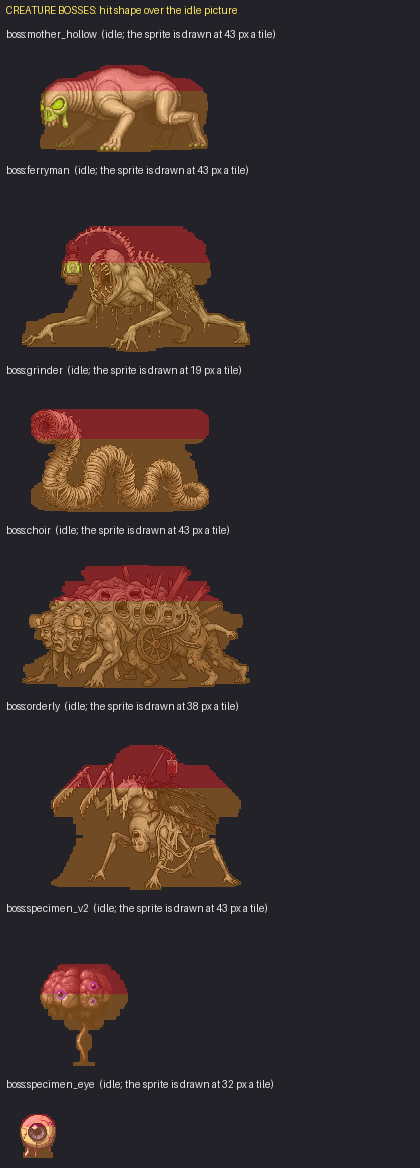
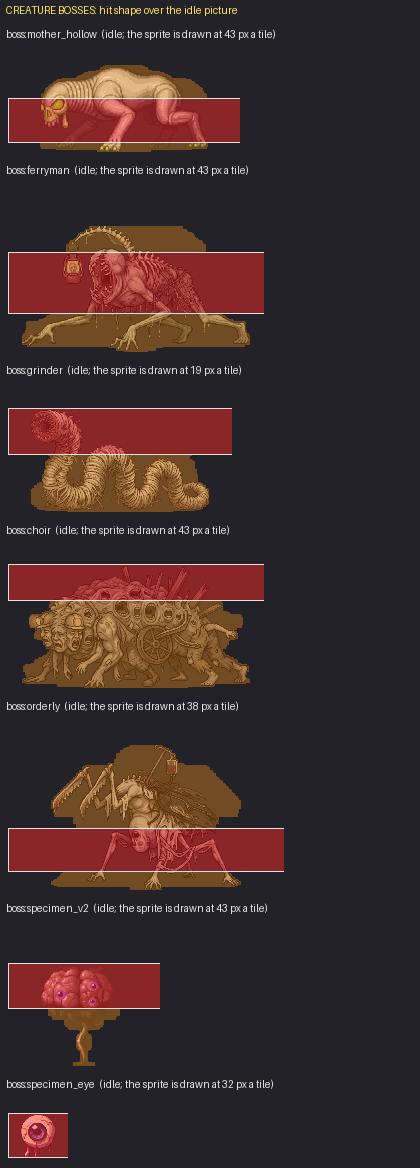
Heads where the heads are drawn (head boxes, crosshair side-aware); bosses' lunges are a visible rush
Claude-Session: https://claude.ai/code/session_01Jpd5tdDJTR7BVueAYV1KDM

diff --git a/ArtSource/make_hit_profiles.py b/ArtSource/make_hit_profiles.py
@@ -24,8 +24,23 @@ def profile_lr(a, ppt):
     def sm(o): o = np.array(o); return np.maximum.reduce([o, np.append(o[1:], 0), np.insert(o[:-1], 0, 0)])
     return sm(L), sm(Rr)
 CENTRE = {}
+
+# 2026-11-22 (Yan: "the hitboxes only consider the top of the mutants as the head, not the actual head from the sprite"): where the HEAD is, per body, as a box in fractions of the stand sprite's opaque bounding box (x 0 = its left edge .. 1 = its right edge in the picture facing right,
+# y 0 = the feet .. 1 = the crown). Read off the pictures (maps/renders/hitboxes). Bosses: a height range only (they are not stored per side). Tiles come out of it: HitProfiles.Head[key] = (x0, x1, yLo, yHi), x from the unit's centre, y above the feet.
+HEAD_FRAC = {'Pallid Prowler': (0.80, 1.0, 0.23, 0.68), 'Blind Maw': (0.65, 1.0, 0.20, 0.78), 'Veil Prowler': (0.82, 1.0, 0.35, 0.72), 'Dread Prowler': (0.78, 1.0, 0.36, 0.74), 'Blight Brute': (0.43, 0.72, 0.32, 0.63),
+             'Gaunt': (0.60, 1.0, 0.56, 1.0), 'Elder Gaunt': (0.65, 1.0, 0.64, 1.0), 'Ward Wretch': (0.30, 0.72, 0.83, 1.0), 'Ward Hulk': (0.35, 0.78, 0.72, 1.0), 'Ward Crawler': (0.48, 0.85, 0.60, 1.0)}   # (the Wards: stored mirrored, they are drawn facing left)
+BOSS_HEAD = {'boss:mother_hollow': (0.10, 0.60), 'boss:ferryman': (0.30, 0.78), 'boss:grinder': (0.55, 1.0), 'boss:orderly': (0.12, 0.42), 'boss:choir': (0.70, 1.0), 'boss:specimen_v2': (0.55, 1.0), 'boss:specimen_eye': (0.0, 1.0)}
+HEAD = {}
+def add_head(name, stand_alpha, ppt):
+    if name not in HEAD_FRAC: return
+    a = stand_alpha; ys = np.where(a.any(1))[0]; xs = np.where(a.any(0))[0]; top, bot = ys.min(), ys.max(); cx = a.shape[1] / 2.0
+    x0f, x1f, y0f, y1f = HEAD_FRAC[name]; xmin, xmax = xs.min(), xs.max() + 1; ht = (bot - top + 1)
+    x0 = (xmin + x0f * (xmax - xmin) - cx) / ppt; x1 = (xmin + x1f * (xmax - xmin) - cx) / ppt
+    if name.startswith('Ward '): x0, x1 = -x1, -x0
+    HEAD[name] = (x0, x1, y0f * ht / ppt, y1f * ht / ppt)
 def union_profile(k, name, ppt):
     stand = np.array(Image.open(f'{R}/Mutants/mutant_hd_{k}.png').convert('RGBA'))[..., 3] > 0
+    add_head(name, stand, ppt)
     bl, br = profile_lr(stand, ppt); bl, br = list(bl), list(br)
     cuts = []
     for kind in ('walk', 'run'):
@@ -67,6 +82,8 @@ for _k, _s in _sc.items():
     E_['boss:' + _k] = profile(_im[:, 0:_w], int(round(32 / _s)))
 eb = np.array(Image.open(f'{R}/Fx/boss_eel_body_s0.png').convert('RGBA'))[..., 3] > 0; EEL = [max(0.12, float(np.median(eb[:, i * 8:i * 8 + 8].sum(0))) / 2 / 32) for i in range(140)]
 eh = np.array(Image.open(f'{R}/Fx/boss_eel_head_s0.png').convert('RGBA'))[..., 3] > 0; EELHEAD = float(eh.sum(0).max()) / 2 / 32
+for _bk, (_lo, _hi) in BOSS_HEAD.items():
+    if _bk in E_: _h = len(E_[_bk][0]) / E_[_bk][1]; HEAD[_bk] = (-99.0, 99.0, _lo * _h, _hi * _h)
 L = ['// GENERATED by ArtSource/make_hit_profiles.py - do not edit. A body\'s hit silhouette: half-width (tiles) per pixel row from the feet up, taken from its sprite.',
      'using System.Collections.Generic;', '', 'namespace GameData', '{', '    public static class HitProfiles', '    {',
      '        /// <summary>Pixels a tile in the sprite the profile was cut from (32 for the double-resolution art, 16 for the old atlas cells).</summary>', '        public static readonly Dictionary<string, (int ppt, float[] half)> All = new Dictionary<string, (int, float[])>', '        {']
@@ -79,5 +96,13 @@ L += ['        };', '', '        /// <summary>2026-11-22 (Yan: the hit shape fol
       '        /// <summary>The eel\'s body: the radius (tiles) of its hit column at each of the 140 spine samples, from the thickness of its drawn body (so it tapers to the tail); the head zone\'s radius.</summary>',
       '        public static readonly float[] EelBody = new[] { ' + ', '.join(f'{v:.3f}f' for v in EEL) + ' };', f'        public const float EelHeadHalf = {EELHEAD:.3f}f;', '',
       '        /// <summary>The silhouette\'s height in tiles (feet to crown), 0 for a body without one.</summary>', '        public static float Height(string key) => key != null && All.TryGetValue(key, out var p) ? p.half.Length / (float)p.ppt : 0f;', '    }', '}', '']
-open(os.path.join(ROOT, 'Assets/Scripts/GameData/HitProfiles.cs'), 'w').write('\n'.join(L))
+_txt = '\n'.join(L)
+_extra = ['        /// <summary>2026-11-22 (Yan: the head is where the head is drawn, not the top 30%): (x0, x1, yLo, yHi) of the head, x from the unit\'s centre in the picture facing right (+-99 = any x), y above the feet, tiles. ArtSource/make_hit_profiles.py HEAD_FRAC.</summary>',
+          '        public static readonly Dictionary<string, (float x0, float x1, float lo, float hi)> Head = new Dictionary<string, (float, float, float, float)>', '        {'] + [f'            ["{n}"] = ({v[0]:.3f}f, {v[1]:.3f}f, {v[2]:.3f}f, {v[3]:.3f}f),' for n, v in HEAD.items()] + ['        };', '',
+          '        /// <summary>Is the point (x from the centre, height above the feet) on the head? `flipped`: the mutant is drawn mirrored. Bodies without a head box: the old rule, the top 30%.</summary>',
+          '        public static bool HasHead(string key) => key != null && Head.ContainsKey(key);', '', '        public static bool OnHead(string key, bool flipped, float x, float height)', '        {',
+          '            if (key == null || !Head.TryGetValue(key, out var h)) return false; if (flipped) x = -x;', '            return height >= h.lo && height <= h.hi && x >= h.x0 && x <= h.x1;', '        }',
+          '        public static bool InHeadRows(string key, float height) => key != null && Head.TryGetValue(key, out var h) && height >= h.lo && height <= h.hi;', '']
+_txt = _txt.replace("        /// <summary>The silhouette's height in tiles (feet to crown)", '\n'.join(_extra) + "\n        /// <summary>The silhouette's height in tiles (feet to crown)", 1)
+open(os.path.join(ROOT, 'Assets/Scripts/GameData/HitProfiles.cs'), 'w').write(_txt)
 for n, (p, ppt) in E_.items(): print(f'{n:16s} {len(p)} rows ({len(p)/ppt:.2f} tiles) half {p.min():.2f}..{p.max():.2f}')

diff --git a/Tools/compile_check/test/Program.cs b/Tools/compile_check/test/Program.cs
@@ -1507,7 +1507,7 @@ static class Program {
       UnityEngine.Time.time = 99000f; UnityEngine.Time.timeScale = 1f; var f = Boss.Spawn(def, px + 5, py); var v = f.Unit; Rt.SetOffset(v, 0f, 0f); if (Environment.GetEnvironmentVariable("PHASE2") != null) { v.Hp = (int)(v.MaxHp * 0.4f); } var (lx, ly) = Ballistics.Pos(v); var (lpx, lpy) = Ballistics.Pos(p); int pjumps = 0; int jumps = 0; var byMove = new Dictionary<string, int>(); var moveCount = new Dictionary<string, int>(); string lastMove = null;
       for (int k = 0; k < 60 * 90; k++) { float dt = 1f / 60f; UnityEngine.Time.time += dt; UnityEngine.Time.deltaTime = dt; UnityEngine.Time.unscaledTime += dt; UnityEngine.Time.unscaledDeltaTime = dt; UnityEngine.Time.timeScale = 1f;
         p.Hp = p.MaxHp; var kin = new Rt.Input(); if (Environment.GetEnvironmentVariable("KITE") != null) { int dd = CombatantUtil.Distance(p, v); int sxk = Math.Sign(p.X - v.X); if (dd < 3) kin.X = sxk; else if (dd > 4) kin.X = -sxk; } Rt.PlayerTick(p, kin); Rt.WorldTick(p); Rt.Glide(dt); CombatFx.Pending.Clear(); var (x, y) = Ballistics.Pos(v); float d = (float)Math.Sqrt((x - lx) * (x - lx) + (y - ly) * (y - ly));
-        string mv = f.Doing?.Name ?? f.Clip ?? "-"; if (d > 0.6f && k > 2) { jumps++; byMove[mv + " (after " + (lastMove ?? "-") + ")"] = byMove.TryGetValue(mv + " (after " + (lastMove ?? "-") + ")", out var c0) ? c0 + 1 : 1; if (jumps <= 12) Console.WriteLine($"  t {UnityEngine.Time.time - 99000f:0.00}: jumped {d:0.0} tiles in {mv}: ({lx:0.0},{ly:0.0}) -> ({x:0.0},{y:0.0})"); }
+        string mv = f.Doing?.Name ?? f.Clip ?? "-"; if (d > 0.25f && k > 2) { jumps++; byMove[mv + " (after " + (lastMove ?? "-") + ")"] = byMove.TryGetValue(mv + " (after " + (lastMove ?? "-") + ")", out var c0) ? c0 + 1 : 1; if (jumps <= 12) Console.WriteLine($"  t {UnityEngine.Time.time - 99000f:0.00}: jumped {d:0.0} tiles in {mv}: ({lx:0.0},{ly:0.0}) -> ({x:0.0},{y:0.0})"); }
         { var (qx, qy) = Ballistics.Pos(p); float pd = (float)Math.Sqrt((qx - lpx) * (qx - lpx) + (qy - lpy) * (qy - lpy)); if (pd > 0.6f && k > 2) { pjumps++; if (pjumps <= 6) Console.WriteLine($"  t {UnityEngine.Time.time - 99000f:0.00}: YOU jumped {pd:0.0} tiles in {mv}"); } lpx = qx; lpy = qy; }
         if (f.Doing != null) { if (f.Doing.Name != lastMove) moveCount[f.Doing.Name] = moveCount.TryGetValue(f.Doing.Name, out var mc0) ? mc0 + 1 : 1; lastMove = f.Doing.Name; } lx = x; ly = y; if (f.Broken || f.Finished) break; }
       Console.WriteLine($"{def.Name}: {jumps} jumps over 0.6 tile; " + string.Join(", ", byMove.Select(e => e.Key + " x" + e.Value)) + $", you jumped {pjumps}x  | moves done: " + string.Join(", ", moveCount.Select(e => e.Key + " " + e.Value)));
@@ -3388,7 +3388,8 @@ static class Program {
       // the bag: a round at the bag's height is a bag hit, x2.5, and the bag holds only so much
       Reset(5); var (ohx, ohy) = Ballistics.Pos(h); float topH = GameData.HitProfiles.Height("boss:orderly"); Check(BossArt.HitKey(h) == "boss:orderly" && topH > 3f, $"Orderly: its hit profile is the drawn hp1 ({topH:0.0} tiles tall)");
       var bagShot = Ballistics.Trace(p, ohx + 0.6f, ohy - 6f, 0f, 1f, 12f, (0.88f * topH) / Ballistics.BodyTiles, new ICombatant[] { h }); Check(bagShot.Unit == h && bagShot.Part == "Bag", $"Orderly: a round at the bag's height is a bag hit ({bagShot.Part})");
-      var chestShot = Ballistics.Trace(p, ohx + 0.6f, ohy - 6f, 0f, 1f, 12f, (0.4f * topH) / Ballistics.BodyTiles, new ICombatant[] { h }); Check(chestShot.Unit == h && chestShot.Part == "Body", $"Orderly: a round at the chest is just the body ({chestShot.Part})");
+      var headShotO = Ballistics.Trace(p, ohx + 0.6f, ohy - 6f, 0f, 1f, 12f, (0.25f * topH) / Ballistics.BodyTiles, new ICombatant[] { h }); Check(headShotO.Unit == h && headShotO.Part == "Head", "Orderly: a round at its drawn face (low on the body) is a head shot");
+      var chestShot = Ballistics.Trace(p, ohx + 0.6f, ohy - 6f, 0f, 1f, 12f, (0.6f * topH) / Ballistics.BodyTiles, new ICombatant[] { h }); Check(chestShot.Unit == h && chestShot.Part == "Body", $"Orderly: a round above its face is just the body ({chestShot.Part})");
       OrderlyBoss.OnEnterZone("x"); f.Stalking = false; f.Broken = false; f.Finished = false; h.Hp = h.MaxHp; float one = OrderlyBoss.BagHit(f, 100f); Check(System.Math.Abs(one - 100f * OrderlyBoss.BagMult) < 0.1f, "Orderly: a bag hit does 2.5x");
       for (int i = 0; i < 40 && !OrderlyBoss.BagBurst(f); i++) OrderlyBoss.BagHit(f, 2000f); Check(OrderlyBoss.BagBurst(f) && h.StatusEffects.Bleeding && f.StaggerUntil > UnityEngine.Time.time, "Orderly: the bag bursts after enough hits: bleeding, open for a moment");
       Check(OrderlyBoss.BagHit(f, 100f) == 100f, "Orderly: a burst bag is just a body now");

diff --git a/Assets/Scripts/GameCore/Ballistics.cs b/Assets/Scripts/GameCore/Ballistics.cs
@@ -54,14 +54,14 @@ namespace GameCore
             if (EelBoss.Is(u)) { part = null; return -1f; }   // Boss 3: the eel is hit along its whole body (EelSump.TraceBody), not at its two base units
             if (u is HumanEnemy hb && BossArt.HitKey(hb) is string bk)                    // 2026-11-21: a creature boss (BossArt) is hit on its own drawn silhouette, not a man's
             {
-                float top = GameData.HitProfiles.Height(bk); part = h * BodyTiles >= 0.7f * top ? "Head" : "Body";
+                float top = GameData.HitProfiles.Height(bk); part = GameData.HitProfiles.HasHead(bk) ? (GameData.HitProfiles.InHeadRows(bk, h * BodyTiles) ? "Head" : "Body") : h * BodyTiles >= 0.7f * top ? "Head" : "Body";   // 2026-11-22: the head is where the head is drawn
                 if (bk == "boss:orderly" && h * BodyTiles >= 0.78f * top && h * BodyTiles <= 0.93f * top) part = "Bag";      // 2026-11-22: the IV bag on its pole, high on its back: a weak point (OrderlyBoss.BagHit)
                 float a = GameData.HitProfiles.Half(bk, h * BodyTiles); return a < 0f ? -1f : Reach(a, GameData.HitProfiles.DepthCap(bk), dx, dy);
             }
             if (!(u is Player) && !(u is HumanEnemy) && u is Mutant m)
             {
                 string key = m.Db?.Name; float top = MutantHeight(m) + EelSump.LiftOfUnit(m);   // Boss 3: a raised eel part is taller from the ground by how high it is drawn
-                part = h * BodyTiles >= 0.7f * top ? "Head" : "Body";
+                part = GameData.HitProfiles.HasHead(key) ? (GameData.HitProfiles.InHeadRows(key, h * BodyTiles) ? "Head" : "Body") : h * BodyTiles >= 0.7f * top ? "Head" : "Body";   // 2026-11-22 (Yan: "the hitboxes only consider the top of the mutants as the head, not the actual head from the sprite"): the head rows of its sprite (HitProfiles.Head); the crosshair's own side-to-side position picks head or body in Rt.PlayerFire
                 if (h * BodyTiles > top) return -1f;
                 float a = GameData.HitProfiles.Half(key, h * BodyTiles); if (a >= 0f) cx = GameData.HitProfiles.CentreOf(key, h * BodyTiles) * (UnitSprites.Flipped(m) ? -1f : 1f);   // the shape sits where the sprite does
                 if (a < 0f) return key != null && GameData.HitProfiles.All.ContainsKey(key) ? -1f : 0.25f * MutantSize(m);   // no silhouette (the bosses): the old column
@@ -92,7 +92,7 @@ namespace GameCore
             if (u is HumanEnemy hb && BossArt.HitKey(hb) is string bk)                    // 2026-11-21: a creature boss's own silhouette
             {
                 float ht = GameData.HitProfiles.Height(bk);
-                for (float y = 0f; y < ht - 0.001f; y += 2f / 32f) { float y2 = System.Math.Min(ht, y + 2f / 32f), a = GameData.HitProfiles.Half(bk, (y + y2) * 0.5f); if (a > 0f) l.Add((y / BodyTiles, y2 / BodyTiles, a, (y + y2) * 0.5f >= 0.7f * ht ? "Head" : "Body", 0f)); }
+                for (float y = 0f; y < ht - 0.001f; y += 2f / 32f) { float y2 = System.Math.Min(ht, y + 2f / 32f), a = GameData.HitProfiles.Half(bk, (y + y2) * 0.5f); if (a > 0f) l.Add((y / BodyTiles, y2 / BodyTiles, a, (GameData.HitProfiles.HasHead(bk) ? GameData.HitProfiles.InHeadRows(bk, (y + y2) * 0.5f) : (y + y2) * 0.5f >= 0.7f * ht) ? "Head" : "Body", 0f)); }
                 return l;
             }
             bool mut = !(u is Player) && !(u is HumanEnemy) && u is Mutant;
@@ -105,7 +105,7 @@ namespace GameCore
                 float y2 = System.Math.Min(height, y + step), mid = (y + y2) * 0.5f, a = GameData.HitProfiles.Half(key, mut ? mid : mid / s);
                 if (a <= 0f) continue;
                 float hs = mid / BodyTiles;
-                string part = mut ? (mid >= 0.7f * height ? "Head" : "Body") : hs >= HeadFrom * s ? "Head" : hs >= TorsoFrom * s ? "Torso" : "Legs";
+                string part = mut ? ((GameData.HitProfiles.HasHead(key) ? GameData.HitProfiles.InHeadRows(key, mid) : mid >= 0.7f * height) ? "Head" : "Body") : hs >= HeadFrom * s ? "Head" : hs >= TorsoFrom * s ? "Torso" : "Legs";
                 l.Add((y / BodyTiles, y2 / BodyTiles, a, part, mut ? GameData.HitProfiles.CentreOf(key, mid) * (UnitSprites.Flipped(m) ? -1f : 1f) : 0f));
             }
             return l;

diff --git a/Assets/Scripts/GameData/HitProfiles.cs b/Assets/Scripts/GameData/HitProfiles.cs
@@ -68,6 +68,38 @@ namespace GameData
         public static readonly float[] EelBody = new[] { 1.109f, 1.141f, 1.203f, 1.219f, 1.234f, 1.250f, 1.188f, 1.203f, 1.219f, 1.141f, 1.141f, 1.133f, 1.156f, 1.055f, 1.062f, 1.086f, 1.109f, 1.031f, 1.031f, 1.062f, 1.086f, 0.984f, 1.031f, 1.078f, 1.094f, 1.070f, 1.062f, 1.078f, 1.078f, 1.062f, 0.969f, 0.969f, 0.992f, 0.945f, 0.953f, 0.984f, 0.938f, 0.914f, 0.906f, 0.906f, 0.898f, 0.906f, 0.906f, 0.938f, 0.859f, 0.883f, 0.914f, 0.883f, 0.867f, 0.867f, 0.875f, 0.875f, 0.891f, 0.891f, 0.859f, 0.859f, 0.867f, 0.875f, 0.836f, 0.844f, 0.797f, 0.797f, 0.781f, 0.812f, 0.828f, 0.875f, 0.867f, 0.867f, 0.867f, 0.852f, 0.891f, 0.883f, 0.875f, 0.875f, 0.852f, 0.875f, 0.883f, 0.914f, 0.875f, 0.867f, 0.938f, 0.906f, 0.891f, 0.906f, 0.906f, 0.906f, 0.922f, 0.977f, 0.984f, 0.953f, 0.938f, 0.844f, 0.781f, 0.766f, 0.766f, 0.766f, 0.727f, 0.703f, 0.719f, 0.719f, 0.711f, 0.688f, 0.641f, 0.656f, 0.672f, 0.672f, 0.609f, 0.602f, 0.609f, 0.594f, 0.539f, 0.547f, 0.547f, 0.500f, 0.484f, 0.477f, 0.477f, 0.461f, 0.445f, 0.438f, 0.438f, 0.430f, 0.406f, 0.414f, 0.406f, 0.367f, 0.344f, 0.344f, 0.320f, 0.312f, 0.312f, 0.273f, 0.234f, 0.219f, 0.203f, 0.203f, 0.188f, 0.188f, 0.156f, 0.141f };
         public const float EelHeadHalf = 1.250f;
 
+        /// <summary>2026-11-22 (Yan: the head is where the head is drawn, not the top 30%): (x0, x1, yLo, yHi) of the head, x from the unit's centre in the picture facing right (+-99 = any x), y above the feet, tiles. ArtSource/make_hit_profiles.py HEAD_FRAC.</summary>
+        public static readonly Dictionary<string, (float x0, float x1, float lo, float hi)> Head = new Dictionary<string, (float, float, float, float)>
+        {
+            ["Pallid Prowler"] = (0.441f, 0.703f, 0.151f, 0.446f),
+            ["Blind Maw"] = (0.259f, 0.719f, 0.200f, 0.780f),
+            ["Veil Prowler"] = (0.480f, 0.750f, 0.317f, 0.652f),
+            ["Dread Prowler"] = (0.551f, 0.984f, 0.416f, 0.856f),
+            ["Blight Brute"] = (-0.145f, 0.390f, 0.600f, 1.181f),
+            ["Gaunt"] = (0.186f, 0.977f, 1.276f, 2.279f),
+            ["Elder Gaunt"] = (0.219f, 1.163f, 1.920f, 3.000f),
+            ["Ward Wretch"] = (-0.256f, 0.203f, 1.556f, 1.875f),
+            ["Ward Hulk"] = (-0.511f, 0.202f, 1.417f, 1.969f),
+            ["Ward Crawler"] = (-0.661f, 0.021f, 0.881f, 1.469f),
+            ["boss:mother_hollow"] = (-99.000f, 99.000f, 0.202f, 1.214f),
+            ["boss:ferryman"] = (-99.000f, 99.000f, 0.879f, 2.286f),
+            ["boss:grinder"] = (-99.000f, 99.000f, 2.982f, 5.421f),
+            ["boss:orderly"] = (-99.000f, 99.000f, 0.458f, 1.603f),
+            ["boss:choir"] = (-99.000f, 99.000f, 2.002f, 2.860f),
+            ["boss:specimen_v2"] = (-99.000f, 99.000f, 1.305f, 2.372f),
+            ["boss:specimen_eye"] = (-99.000f, 99.000f, 0.000f, 1.375f),
+        };
+
+        /// <summary>Is the point (x from the centre, height above the feet) on the head? `flipped`: the mutant is drawn mirrored. Bodies without a head box: the old rule, the top 30%.</summary>
+        public static bool HasHead(string key) => key != null && Head.ContainsKey(key);
+
+        public static bool OnHead(string key, bool flipped, float x, float height)
+        {
+            if (key == null || !Head.TryGetValue(key, out var h)) return false; if (flipped) x = -x;
+            return height >= h.lo && height <= h.hi && x >= h.x0 && x <= h.x1;
+        }
+        public static bool InHeadRows(string key, float height) => key != null && Head.TryGetValue(key, out var h) && height >= h.lo && height <= h.hi;
+
         /// <summary>The silhouette's height in tiles (feet to crown), 0 for a body without one.</summary>
         public static float Height(string key) => key != null && All.TryGetValue(key, out var p) ? p.half.Length / (float)p.ppt : 0f;
     }

diff --git a/Assets/Scripts/GameCore/Rt.cs b/Assets/Scripts/GameCore/Rt.cs
@@ -77,7 +77,7 @@ namespace GameCore
                     if (Mathf.Abs(jx) <= 2.5f && Mathf.Abs(jy) <= 2.5f) { sx += jx; sy += jy; } else { sx = 0f; sy = 0f; }   // a jump far off is a teleport
                     Was[e] = (bx, by);
                 }
-                float len = Mathf.Sqrt(sx * sx + sy * sy), step = Mathf.Max(RtAi.Speed(e) * 1.15f, len > 1.2f ? len / RushTime : 0f) * dt;   // a lunge rushes (game time: bullet time slows it too)
+                float len = Mathf.Sqrt(sx * sx + sy * sy), step = Mathf.Max(RtAi.Speed(e) * 1.15f, len > 1.2f ? len / (e is HumanEnemy && Boss.Of(e) != null ? RushTimeBoss : RushTime) : 0f) * dt;   // a lunge rushes (game time: bullet time slows it too)
                 if (len <= step || !e.IsAlive()) { sx = 0f; sy = 0f; } else { sx *= (len - step) / len; sy *= (len - step) / len; }
                 Slide[e] = (sx, sy);
             }
@@ -88,6 +88,7 @@ namespace GameCore
         public const float StaminaMax = 100f, SprintDrain = 18f, StaminaRegen = 14f;
         public const float Radius = 0.22f;
         public const float NpcTurnSeconds = 3f, RoundSeconds = 6f;
+        public const float RushTimeBoss = 0.32f;                      // 2026-11-22: a boss's lunge is drawn as a rush you can see (3 tiles in a third of a second), not a snap
         public const float RushTime = 0.12f;                          // Glide: a jump of more than 1.2 tiles (a lunge) closes in about this long   // a human enemy re-thinks its plan every ~3 s (RtAi acts in between)
 
         // Co-op groundwork (Yan: "if we decided to build for it from the start why are we building NOT for it?" - ACTION_DESIGN
@@ -576,6 +577,16 @@ namespace GameCore
             if (over == null && TerrainMap.CoverAcAt(mx, my) > 0 && !TerrainMap.BlocksSight(mx, my)) h = 0.3f;   // a barrel, sandbags, a desk: shoot the thing itself
             // the crosshair is over a body: aim at that body's footprint, at the height of the pixel under it
             if (over != null) { var (ux, uy) = atEel ? (eelX, eelY) : Ballistics.Pos(over); dx = ux - px; dy = uy - py; len = Mathf.Sqrt(dx * dx + dy * dy); }
+            if (over != null && !atEel)                                                                       // 2026-11-22: the crosshair on the HEAD drawn on the sprite is a head shot; on its body at head height, a body shot (the head box is side to side too)
+            {
+                string hk = over is HumanEnemy hbo ? BossArt.HitKey(hbo) : over is Mutant mo ? mo.Db?.Name : null;
+                if (hk != null && GameData.HitProfiles.Head.TryGetValue(hk, out var hbx))
+                {
+                    var (ux2, uy2) = Ballistics.Pos(over); float hgt = h * Ballistics.BodyTiles; bool flp = over is Mutant mf && !(over is HumanEnemy) && UnitSprites.Flipped(mf);
+                    if (GameData.HitProfiles.OnHead(hk, flp, at.x - ux2, hgt)) h = Mathf.Clamp(h, (hbx.lo + 0.02f) / Ballistics.BodyTiles, (hbx.hi - 0.02f) / Ballistics.BodyTiles);
+                    else if (GameData.HitProfiles.InHeadRows(hk, hgt)) h = (hbx.lo - 0.03f) / Ballistics.BodyTiles;
+                }
+            }
             if (len < 0.05f) return;
             // Yan, 2026-11-13 (eel fight): "the aim keeps snapping toward its base in the water". The round is aimed at the part's footing on the ground (that is what the hit test reads), but the part is drawn Z tiles
             // up, so the gun and the round went to the water. The round now RISES to the part's height over that distance (Up), and the gun stays on the crosshair (FxEvent.AtEel).

diff --git a/ArtSource/render_hitboxes.py b/ArtSource/render_hitboxes.py
@@ -8,6 +8,8 @@ src = open(os.path.join(ROOT, 'Assets/Scripts/GameData/HitProfiles.cs')).read()
 All = {n: (int(ppt), np.array([float(v.rstrip('f')) for v in vals.split(',')])) for n, ppt, vals in re.findall(r'\["([^"]+)"\] = \((\d+), new\[\] \{ ([^}]*) \}\)', src)}
 cen_block = src[src.index('Centre = new'):src.index('CentreOf')]
 Centre = {n: np.array([float(v.rstrip('f')) for v in vals.split(',')]) for n, vals in re.findall(r'\["([^"]+)"\] = new\[\] \{ ([^}]*) \}', cen_block)}
+head_block = src[src.index('Head = new'):src.index('HasHead')]
+HEADS = {n: tuple(float(v.rstrip('f')) for v in vals.split(',')) for n, vals in re.findall(r'\["([^"]+)"\] = \(([^)]*)\)', head_block)}
 ATT = open(os.path.join(ROOT, 'Assets/Scripts/GameData/MutantAttackData.cs')).read()
 BA = open(os.path.join(ROOT, 'Assets/Scripts/GameCore/BossArt.cs')).read()
 ZOOM = 3
@@ -22,8 +24,13 @@ def overlay(img, key, ppt, flip, name_unit=None):
         y = bot - r
         if y < 0: break
         c = cen[r] * (-1 if flip else 1); x0 = cx + (c - half[r]) * ppt; x1 = cx + (c + half[r]) * ppt
-        col = (255, 40, 40, 110) if r >= 0.7 * top else (255, 150, 30, 90)
+        col = (255, 150, 30, 90)
         d.line([(x0, y), (x1, y)], fill=col)
+    if key in HEADS:                                                                  # the head box (HitProfiles.Head): red
+        x0, x1, lo, hi = HEADS[key]
+        if flip: x0, x1 = -x1, -x0
+        if x0 < -50: x0, x1 = -cx / ppt, cx / ppt
+        d.rectangle([cx + x0 * ppt, bot - hi * ppt, cx + x1 * ppt, bot - lo * ppt], fill=(255, 40, 40, 120), outline=(255, 255, 255, 220))
     return Image.alpha_composite(img, lay)
 def panel(frame, key, ppt, flip, zoom=None):
     im = frame.transpose(Image.FLIP_LEFT_RIGHT) if flip else frame
@@ -51,7 +58,7 @@ for key, (ppt, half) in All.items():
         fn = f'{R}/Mutants/anim/{base}_{kind}.bytes'; m = re.search(r'\["%s"\] = new Dictionary.*?\["%s"\] = new AttackAnim \{ Frames = (\d+), W = \d+, H = \d+, Contact = (\d+)' % (re.escape(key), kind), ATT, re.S)
         if os.path.exists(fn) and m: ps.append(panel(strip_frame(fn, int(m.group(1)), int(m.group(2))), key, ppt, False)); break
     mut_items.append((f'{key}  (stand facing right | facing left | walk | strike contact)', ps))
-sheet(mut_items, 'MUTANTS: hit shape over the sprite (orange = body, red = head)', os.path.join(OUT, 'mutants.png'))
+sheet(mut_items, 'MUTANTS: hit shape over the sprite (orange = body, red box = head)', os.path.join(OUT, 'mutants.png'))
 atlas = Image.open(f'{R}/mutant_atlas.png').convert('RGBA'); items = []
 for i, n in {2: 'Swarm', 7: 'Mind Weaver', 10: 'Void Weaver'}.items():
     cell = atlas.crop((i * 16, 0, (i + 1) * 16, atlas.height)); ppt = All[n][0]; items.append((n + '  (16 px a tile; never flipped)', [panel(cell, n, ppt, False, 6)]))

diff --git a/Assets/Scripts/GameCore/Boss.cs b/Assets/Scripts/GameCore/Boss.cs
@@ -73,7 +73,7 @@ namespace GameCore
         {
             public Def Def; public HumanEnemy Unit;
             public int Phase = 1;
-            public Move Doing; public int HitsLeft; public float StrikeAt = -1f, NextMoveAt, NextStep, StaggerUntil = -1f;
+            public float LungedFor = -1f; public Move Doing; public int HitsLeft; public float StrikeAt = -1f, NextMoveAt, NextStep, StaggerUntil = -1f;
             public bool Broken, Finished, Gone; public float LootedAt = -1f;
             public float GlintAt = -99f; public bool GlintDanger;   // for the view
             public float Started;
@@ -294,6 +294,8 @@ namespace GameCore
                 foreach (var m in options) { if (roll < m.Weight) { Begin(f, m, now, speed); break; } roll -= m.Weight; }
                 return;
             }
+            if (f.Doing.Lunge > 0f && f.Doing.Drag <= 0f && !f.Def.Rooted && f.LungedFor != f.StrikeAt && now >= f.StrikeAt - LungeLead && now < f.StrikeAt)   // 2026-11-22 (Yan: "the Ferryman's lunge bite teleports him"): the lunge used to happen at the hit and was drawn in 0.12 s; now he sets off LungeLead before it, and Rt.Glide draws a boss's rush over RushTimeBoss
+            { f.LungedFor = f.StrikeAt; StepIn(f.Unit, p, 0.8f); }
             if (now < f.StrikeAt) return;
             Land(f, p);
             if (f.Doing == null) return;                                    // parried mid-combo: the stagger already cut it short
@@ -328,6 +330,7 @@ namespace GameCore
         }
         public static bool Open(ICombatant u) => Of(u) is Fight f && Time.time < f.OpenUntil && !f.Broken && !f.Finished;
 
+        public const float LungeLead = 0.34f;     // how long before the blow a lunging boss sets off (he arrives as it lands)
         internal static void Begin(Fight f, Move m, float now, float speed)
         {
             f.Doing = m; f.HitsLeft = m.Hits; f.StrikeAt = now + m.Wind * speed;

diff --git a/ArtSource/WORK_LOG.md b/ArtSource/WORK_LOG.md
@@ -6942,3 +6942,4 @@ Yan: "give me the concept for that boss we talked about after this". `ArtSource/
 - 9bq (2026-11-22) VEIL TELEPORT and BLIND MAW. VEIL (Yan: 'teleports around after some attacks, especially the lunge, it instantly goes back to lunge range'): new harness command `veilpath` (the drawn position of a Veil Prowler fighting a standing player, every frame jump over 0.5 tile). Two instant steps found. (1) At the moment of contact `Mutant.Attack` for a cloaking mutant ran `MoveAwayFrom(target)` (the old 'fades back' step): an instant tile move while the lunge's slide was held, so it showed as a 1.4-tile snap; in real time the retreat is MutantAttack.AfterAttack's walk, so the instant step is now only for `!Rt.On`. (2) At the end of the lunge `Rt.ReleaseSlide` forgot where the unit stood (`Was.Remove`), so the first retreat step taken in the same frame showed as a snap (another 1.4 tiles): it now remembers the position, and the step glides. After the fix `veilpath` finds no jump. Harness ALL CHECKS PASSED. BLIND MAW (Yan: 'attacks immediately when reaching range and is unreactable, his attack animation needs to be a little slower and hit a little later'): its bite clips are held 1.4x longer (MutantAttack.Slow: bite contact 355 -> 497 ms, bite2 495 -> 693 ms, whole clip 775 -> 1085 ms), it waits 0.4 s after reaching you before its first bite (MutantAttack.EngageDelay), and the charge's rear-up before the run is 0.5 s (was 0.3, for every charger). Not seen in Unity.
 - 9br (2026-11-22) AIM ASSIST OFF and the MUTANT HITBOX PASS (Yan: 'the aim assist thing is messing up the actual aiming, i aim for the head and the aim snaps to the hitbox; the hitboxes do not match the sprite for a lot of the mutants, do a quality check on hitboxes for mutants, every part of the body must be damageable'). AIM: Rt.AssistRadius was 1.0 tile (1.8 with a scope): a crosshair not on a sprite but within that of a body's middle was moved onto the chest (`Rt.PlayerFire`: `assisted`, height 0.55) and the crosshair went red there. Both radii are 0 now: the round goes where the crosshair is, a body is hit only under its own sprite (two aim checks changed to say so). HITBOXES: `ArtSource/audit_hitboxes.py` (output in ArtSource/weapons/HITBOX_AUDIT.txt) compares each mutant's hit silhouette with every frame drawn for it. Finding: the silhouette (GameData/HitProfiles.cs) was cut from the STAND sprite only, so parts that swing out while it walks, runs or strikes were outside it: 5-16% of a mutant's drawn pixels (Veil 10.6%, Wretch 16%, Blind Maw 8.4%, Brute 6.9%, Hulk 5.8%, Crawler 7.8%, Dread 4.6%, Pallid 4.9%), up to 36-46% in a pounce frame. `make_hit_profiles.py` now takes the UNION (per row, the widest reach) of the stand sprite, the 8 walk and 8 run pictures and the contact frame of every melee clip: unhittable pixels fall to 0.0-3.8% (the Wretch 10.4%, the Elder's combos still 21%: his clips have their own frame counts, not audited, and a combo's reach is long). The cost: a wider silhouette, so the share of the hit shape with no sprite in it rose about 10-17 points (e.g. Blind Maw 24% -> 43%). NOT done: a silhouette that follows which way the mutant faces (it is symmetric about its centre, so a sprite that sits to one side leaves empty hitbox on the other: the main source of that 'empty' share), and parts of the body as separate damage zones (mutants only have Head = the top 30% and Body). Also fixed: the soak test's random crash in the brain fight (BrainBoss.FlyOrbs removed an orb after a hit that ended the fight had cleared the list). Harness ALL CHECKS PASSED (three runs).
 - 9bs (2026-11-22) HITBOXES FOLLOW THE FACING, BOSS HITBOX BUG, THE WORM'S SIZE, DOWNED AT 1 HP, AUDIT SHEETS (Yan: 'make the hitboxes follow which way the mutant faces'; 'some bosses have their hitbox only in the middle ... I tested him [the Ferryman] and the giant worm'; 'the worm is too small, double its size'; 'some attacks down me without having me at 1 hp'; 'make an audit of all the mutant hitboxes in game and show them'). (1) FACING: `make_hit_profiles.py` keeps, per row, how far the silhouette reaches LEFT and RIGHT of the unit's centre and stores half-width plus the middle's offset (`HitProfiles.Centre`, `CentreOf`), for the facing-right picture (the Ward mutants, drawn facing left, are stored swapped). `UnitSprites.Flipped(m)` is the one answer to 'is it drawn mirrored' (toward you in a fight, toward where it walks, the Brute's throw toward its target) and the view now reads it; `Ballistics.HalfWidth` returns the offset, `Trace` shifts the line's side distance by it, `Rt.UnitUnder` (the crosshair) uses it, the F6 overlay draws the shifted bands (`Ballistics.BoxesC`). (2) BOSS HITBOX: `Rt.UnitUnder` (what is under the crosshair) looked up every HumanEnemy by the HUMAN silhouette (0.25 tile half-width): a creature boss (Ferryman, the Grinder, Orderly, Mother Hollow, Choir, Specimen v2) was 'under the crosshair' only in the middle of its sprite; with the aim assist gone nothing hid it. It now uses the boss's own silhouette (BossArt.HitKey). New check: 274 points along the edges of every creature boss's and mutant's silhouette, both facings, must be under the crosshair. (3) THE GRINDER (the giant worm) is drawn twice as big (BossArt.Scales 0.85 -> 1.7; its silhouette is regenerated: 9.4 tiles wide, 5.4 tall: check the Pit Floor arena fits it). (4) DOWNED: `Body.Hit` sent a PLAYER down (a downed, bleeding-out state) as soon as his head or torso pool ran dry, whatever his health (the screenshot: 142 HP, 'down 31 s'); a player now goes down only when his health reaches 1 (Player.TakeDamage). NPC humans still die by their torso/head pools (the weapon tuning rests on it). (5) AUDIT: `ArtSource/render_hitboxes.py` draws every mutant's shape over its stand picture facing right and left, a walk frame and a strike frame, and the creature bosses over their idle picture: maps/renders/hitboxes/mutants.png, small_mutants.png, bosses.png. Seen on them: shapes now cover every drawn part (claws, antlers, spines), but they are row envelopes (the widest reach of any frame at each height), so there is empty hitbox above low bodies and beside thin ones; the Elder Gaunt's (and the Gaunt's) long claw arm in its strike frame widens its shape to one side at mid height even when standing; the bosses' shapes are the idle picture's envelope only. The FERRYMAN'S TELEPORT I could not reproduce: new `bosspath` probe (a boss fights a standing or kiting player for 90 s, phase 2 included, every move done): no frame jump of his drawn position, his art is centred, only YOU jump (the Hands/Reel pulls and knockdowns). Needs which attack. Harness ALL CHECKS PASSED.
+- 9bt (2026-11-22) HEADS WHERE THE HEADS ARE, and THE FERRYMAN'S LUNGE (Yan, with four circled sprites: 'the hitboxes only consider the top of the mutants and monsters as the head, not the actual head from the sprite'; 'the Ferryman's lunge bite teleports him'). HEADS: a mutant's or boss's 'Head' was the top 30% of its silhouette, so a hound's head (the front, low) was body and its back was head. `make_hit_profiles.py` now carries a HEAD box per body (HEAD_FRAC for the mutants: a box in fractions of the stand sprite's opaque bounding box, read off the pictures; BOSS_HEAD: rows only, for the bosses: Mother Hollow 10-60%, Ferryman 30-78%, Grinder 55-100%, Orderly 12-42% (its drawn face is low on the body), Choir 70-100%, Specimen's brain 55-100%) -> `HitProfiles.Head`, `OnHead`, `InHeadRows`. `Ballistics.HalfWidth` names Head by those rows; `Rt.PlayerFire` uses the crosshair's side-to-side position too (a mutant: the crosshair inside the head box = a head shot, on the body at head height = a body shot, mirrored with the facing), the F6 overlay and the audit sheets (maps/renders/hitboxes/) show the box. NPC rounds still pick by height only (the rows). Two tests updated (the Orderly's face). NOT done: the head box follows the stand picture only (it moves in a strike or a pounce); the Gaunts' antlers are inside their head box; the Swarm/Weavers (16 px atlas) and the Specimen's eye are one body. LUNGE: the Ferryman's Bite (Lunge 3) set him on the target's tile AT the hit and Rt.Glide drew the 3 tiles in 0.12 s (a snap, 0.3 tile a frame in the probe): now a lunging boss sets off 0.34 s before the blow (`Boss.LungeLead`, `LungedFor`) and a boss's rush is drawn over 0.32 s (`Rt.RushTimeBoss`); the Verger's hooks (Drag) keep their own step. Probe: his fastest frame fell from 0.3 tile to under 0.16. Applies to every boss with a Lunge (the Visor's, the Reaper's Rush, Scrap King's charges...): say if any should be snappier. Harness ALL CHECKS PASSED.
